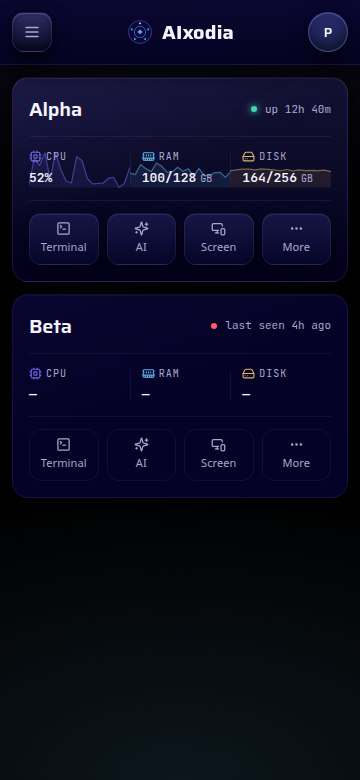
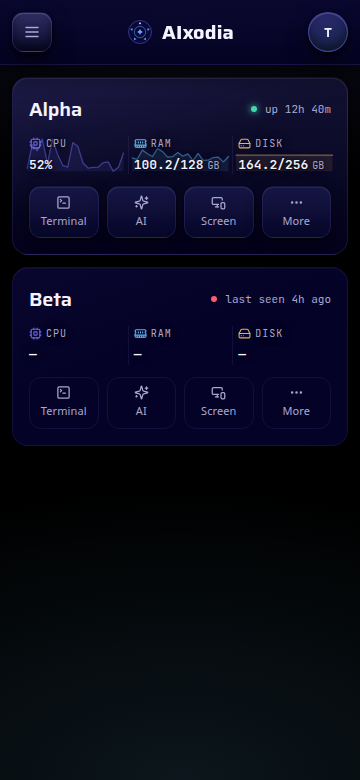
Separate the readings with a hairline and cut the drawer to two entries
A 1px hairline down the middle of each metric gap, above the chart, replaces the
frames that are no longer there. The drawer keeps only Engines and Droidime, the
dropped entries taking their icon imports with them, and ends with the account
name over its own rule; the avatar shows the same initial from one constant.

Changed region(s): [[0.0306, 0.1538, 0.9778, 0.6462], [0.8861, 0.0308, 0.9167, 0.0615]]

diff --git a/src/mock/EnginesMock.tsx b/src/mock/EnginesMock.tsx
@@ -11,11 +11,10 @@ import {
   Cpu,
   Ellipsis,
   HardDrive,
-  History,
   MemoryStick,
   Menu,
   MonitorSmartphone,
-  Settings,
+  Smartphone,
   Sparkles,
   SquareTerminal,
   X,
@@ -98,11 +97,11 @@ const MACHINES: Machine[] = [
   },
 ]
 
+const ACCOUNT = 'Tulipskun'
+
 const DRAWER: { id: string; label: string; icon: LucideIcon; current?: boolean }[] = [
   { id: 'engines', label: 'Engines', icon: Boxes, current: true },
-  { id: 'sessions', label: 'Sessions', icon: History },
-  { id: 'ai', label: 'AI', icon: Sparkles },
-  { id: 'settings', label: 'Settings', icon: Settings },
+  { id: 'droidime', label: 'Droidime', icon: Smartphone },
 ]
 
 const ACTIONS = [
@@ -277,7 +276,9 @@ function Drawer({ open, onClose }: { open: boolean; onClose: () => void }) {
           ))}
         </nav>
 
-        <p className="drawer-foot">P · owner</p>
+        <p className="drawer-foot">
+          <span className="drawer-account">{ACCOUNT}</span>
+        </p>
       </aside>
     </>
   )
@@ -301,8 +302,8 @@ export function EnginesMock() {
           <img className="brand-mark" src="/brand/aixodia-mark.svg" alt="" width={28} height={28} />
           <span className="brand-name">AIxodia</span>
         </div>
-        <button type="button" className="avatar" aria-label="Account">
-          P
+        <button type="button" className="avatar" aria-label={`Account: ${ACCOUNT}`}>
+          {ACCOUNT[0]}
         </button>
       </header>
 

diff --git a/src/mock/mock.css b/src/mock/mock.css
@@ -197,11 +197,17 @@ button:disabled { cursor: not-allowed; }
 .drawer-item svg { flex: 0 0 auto; opacity: 0.9; }
 
 .drawer-foot {
+  display: flex;
+  align-items: center;
+  gap: var(--s2);
   margin: auto 0 0;
-  padding: 0 var(--s3);
-  font-family: var(--mono);
-  font-size: var(--fs-meta);
-  color: var(--dim);
+  padding: var(--s3) var(--s3) 0;
+  border-top: 1px solid var(--hairline);
+}
+
+.drawer-account {
+  font-size: var(--fs-body);
+  color: var(--text);
 }
 
 /* --------------------------------------------------------------- topbar */
@@ -404,6 +410,19 @@ button:disabled { cursor: not-allowed; }
   flex-direction: column;
   gap: var(--s1);
   min-width: 0;
+}
+
+/* With no frames the readings need an edge to be told apart: a hairline down the
+   middle of each gap, above the chart, so it separates without boxing anything. */
+.metric + .metric::before {
+  content: '';
+  position: absolute;
+  z-index: 1;
+  top: 0;
+  bottom: 0;
+  left: calc(var(--s3) / -2);
+  width: 1px;
+  background: var(--hairline);
 }
 
 /* Icon and name on one line, the reading under it: the number is the point, so it

diff --git a/docs/ux-visual/verification/mock.md b/docs/ux-visual/verification/mock.md
@@ -635,3 +635,17 @@ The geometry audit now reports a deliberate `spillPx: 6` on `.metrics` and each
 `.metric`: that is the requested overshoot. It is inside the card's 16px padding,
 so nothing is clipped and nothing leaves the card. `pageScrollY 0` and
 `pageOverflowX 0` at 320, 360, 390, 430 and 1440.
+
+## Round 33 — a hairline between the readings, and two entries in the drawer
+
+- `.metric + .metric::before` draws a `1px` `--hairline` down the middle of each
+  gap (`left: -6px`, i.e. `--s3 / -2`), `z-index: 1` so it sits over the chart.
+  It separates the three readings without boxing any of them.
+- The drawer is down to two entries, **Engines** (current) and **Droidime**;
+  Sessions, AI and Settings and their icon imports are gone.
+- The bottom of the drawer is the account, `Tulipskun`, above its own hairline,
+  and the top-bar avatar now shows the same initial (`T`) instead of a hardcoded
+  `P`. The name is a placeholder until auth is wired — one constant, `ACCOUNT`.
+
+The 6px chart bleed still shows as the one intended spill in the geometry audit;
+everything else is clean at 320, 360, 390, 430 and 1440.
